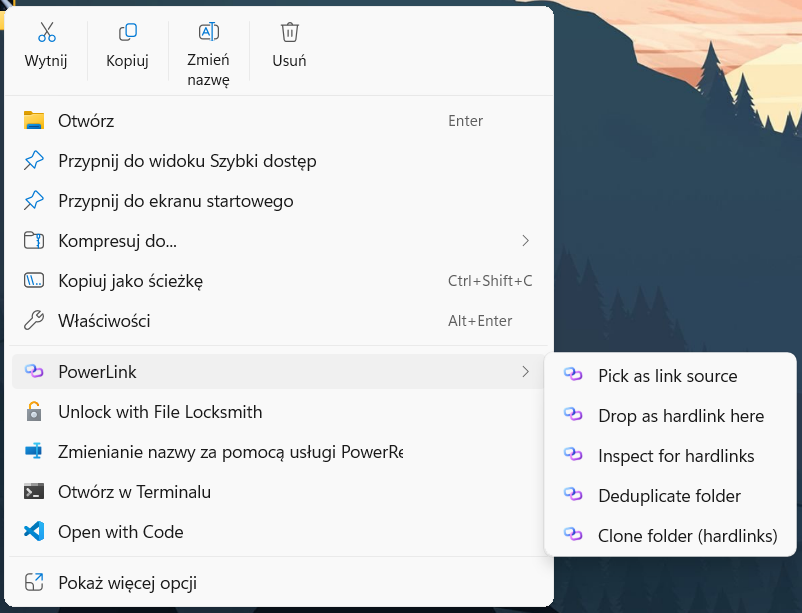
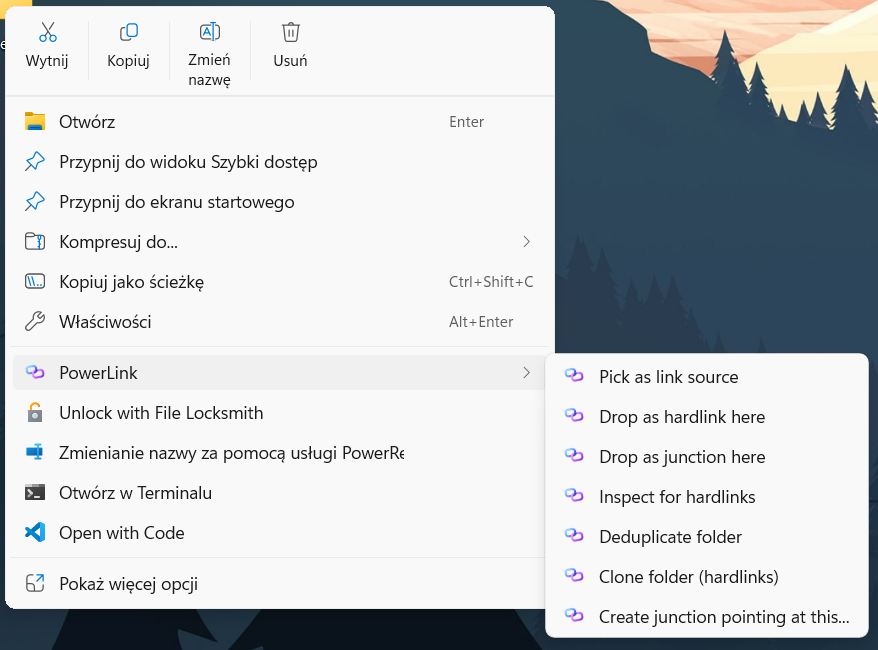
README: refresh screenshots and copy for junction support
- New screenshot: Junction page in the WinUI 3 app, added to the
  Screenshots grid alongside Clone.
- Refreshed Classic and Modern Win11 context-menu screenshots — both
  now show all eight PowerLink verbs in the cascade, including the
  new "Drop as junction here" and "Create junction pointing at this..."
  entries.
- One-line tagline broadened from "NTFS hardlink tool" to "NTFS link
  tool" so the front matter matches what the app does.
- "Hardlink Inspector" caption renamed to "Link Inspector" (the page
  itself was renamed earlier; the screenshot caption was the last
  stale reference).
- Quick start: added Junction as a workflow option.
- Architecture: Junction page listed in PowerLink.App's page set.

diff --git a/README.md b/README.md
@@ -1,6 +1,6 @@
 # PowerLink
 
-NTFS hardlink tool for Windows — deduplicate identical files in place, clone directories without copying data, and drive it all from Explorer.
+NTFS link tool for Windows — deduplicate identical files in place with hardlinks, clone directories without copying data, create directory junctions, and drive it all from Explorer.
 
 > **Status:** pre-release. Setup.exe + portable zip on the [Releases](../../releases) page, not code-signed yet. See [Limitations](#limitations) before installing.
 
@@ -38,13 +38,17 @@ All of this is driven from a WinUI 3 app and a matching CLI. The shell extension
 
 ## Screenshots
 
-| Deduplicate | Hardlink Inspector |
+| Deduplicate | Link Inspector |
 |---|---|
 | ![Deduplicate page](docs/media/dedup-page.png) | ![Inspector page](docs/media/inspector-page.png) |
 
-| Clone | Settings |
+| Clone | Junction |
 |---|---|
-| ![Clone page](docs/media/clone-page.png) | ![Settings page](docs/media/settings-page.png) |
+| ![Clone page](docs/media/clone-page.png) | ![Junction page](docs/media/junction-page.png) |
+
+| Settings | |
+|---|---|
+| ![Settings page](docs/media/settings-page.png) | |
 
 **Explorer context menu** — classic right-click menu (under "Show more options" on Windows 11) on the left, Windows 11 modern top-section menu on the right. Both show the PowerLink submenu expanded:
 
@@ -86,7 +90,8 @@ Curated release notes for each version are in [CHANGELOG.md](CHANGELOG.md) and o
 2. Pick an operation:
    - **Deduplicate** — add folders, press Scan (F5), review groups, press "Replace duplicates with hardlinks".
    - **Clone** — pick source + destination, optionally Dry run, press Run.
-   - **Inspect** — add folders, press Scan to see all existing hardlink groups.
+   - **Junction** — pick a target folder, pick the parent folder where the junction appears, hit Create.
+   - **Inspect** — add folders, press Scan to see all existing hardlink groups and junctions.
 3. Optional: open **Settings** and install shell integration (see [Explorer integration](#explorer-integration) below).
 
 No background service, no registry writes until you opt into shell integration from Settings. Setup.exe registers itself in Add/Remove Programs (per-user, no admin); Portable.zip leaves no trace beyond the folder you extracted into.
@@ -187,7 +192,7 @@ Integration tests that load the native DLL skip silently if `PowerLink.ShellExt.
 ```
 src/
   PowerLink.Core/         — file scanning, hashing (XxHash128), dedup engine, clone engine, Win32 hardlink wrappers
-  PowerLink.App/          — WinUI 3 desktop app (Deduplicate, Inspector, Clone, Settings pages, Velopack updater)
+  PowerLink.App/          — WinUI 3 desktop app (Deduplicate, Clone, Junction, Inspector, Settings pages, Velopack updater)
   PowerLink.Cli/          — command-line interface + elevated overlay installer
   PowerLink.ShellExt/     — native C++ COM DLL: overlay handler, drop handler, Win11 modern menu command, plus
                             `ShellExtUtils.{h,cpp}` with the testable helpers (FormatArgs, GetModuleDir, etc.)
